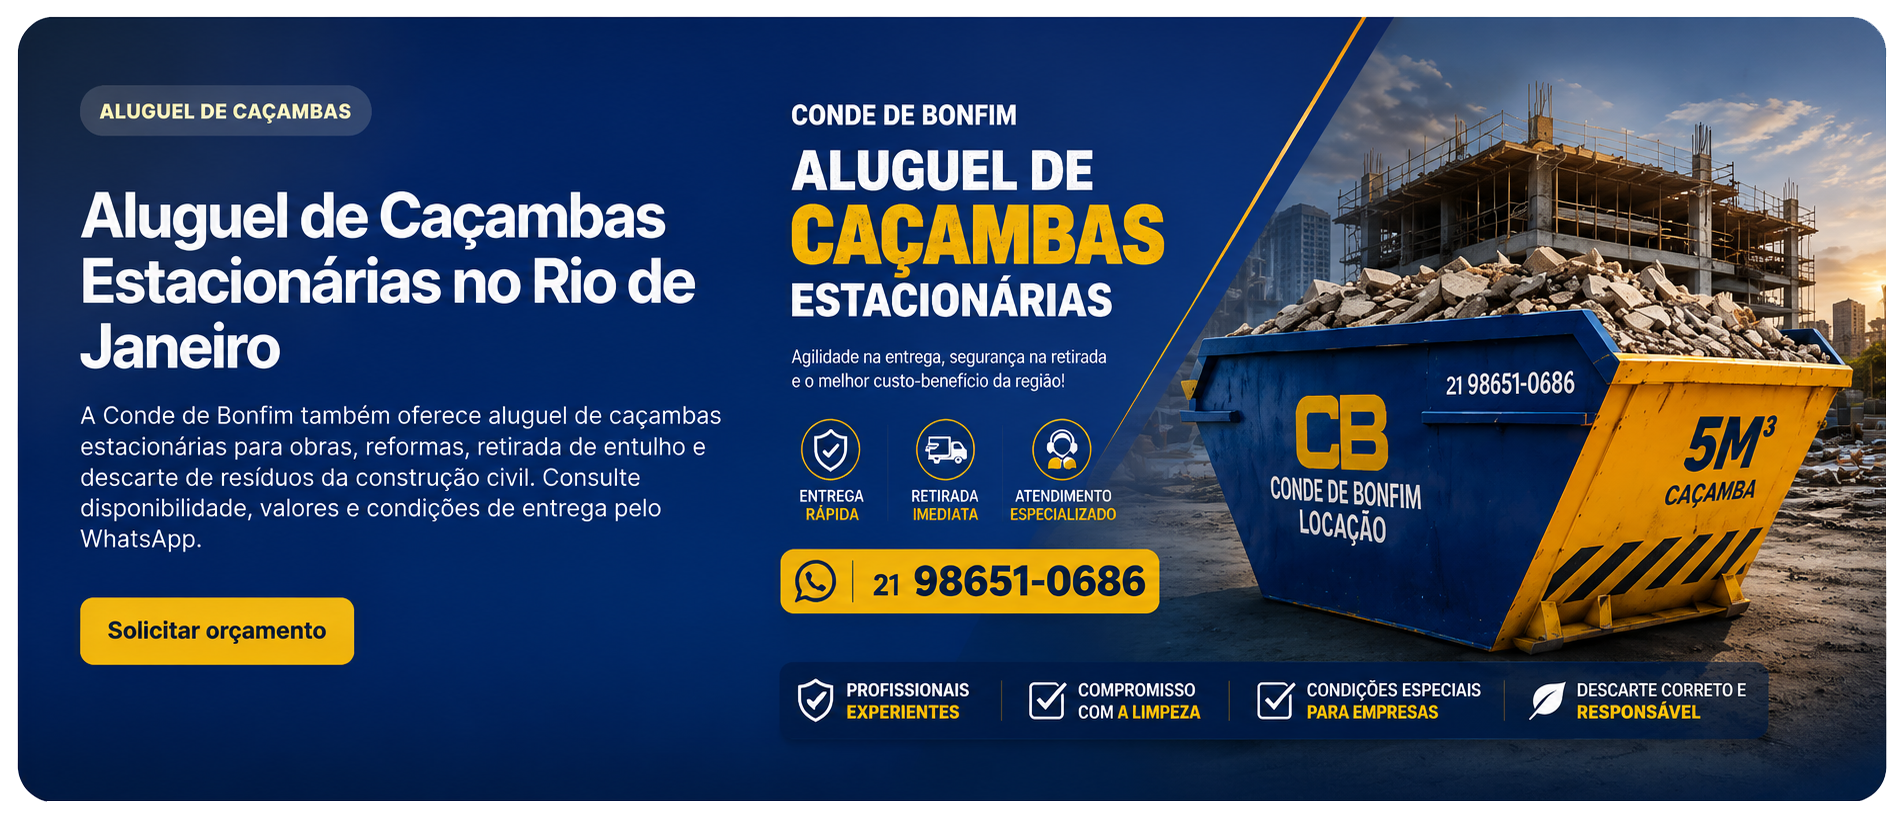
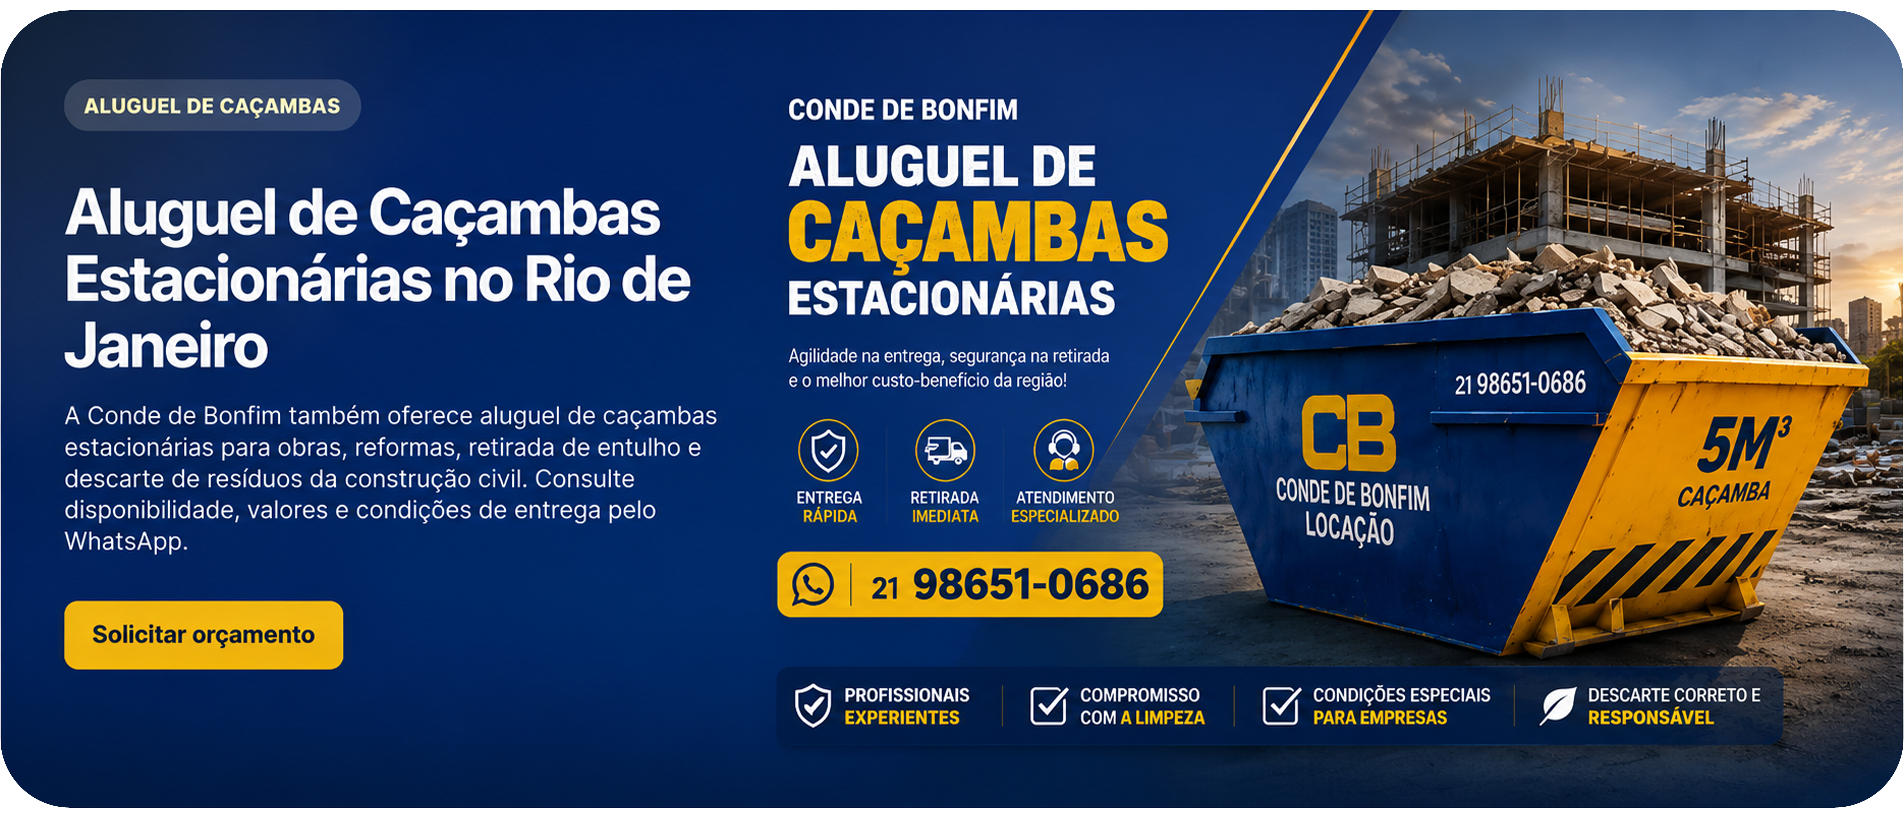
Atualização do card de aluguel de caçambas

diff --git a/app.js b/app.js
@@ -531,7 +531,7 @@ async function loadOffersPage(reset = false) {
     category: activeCategory
   });
   const promoProducts = (Array.isArray(result.products) ? result.products : [])
-    .filter((product) => typeof product.offPct === "number" && product.offPct > 0)
+    .filter((product) => typeof product.offPct === "number" && product.offPct > 50)
     .sort((a, b) => Number(b.offPct || 0) - Number(a.offPct || 0))
     .slice(0, 9);
   offersLoadedProducts = promoProducts;
@@ -768,8 +768,8 @@ function renderCategories() {
     card.className = "catCard" + (activeCategory === category.name ? " is-active" : "");
     card.type = "button";
     card.innerHTML = `
-      <div class="catIcon">📦</div>
-      <div class="catContent">
+      <div class="catIcon">✅</div>
+        <div class="catContent">
         <div class="catTitle">${escapeHtml(category.name)}</div>
         <div class="catCount">
           ${typeof category.count === "number" ? `${category.count} itens` : ""}

diff --git a/styles.css b/styles.css
@@ -1069,6 +1069,7 @@ textarea{
   line-height:1.35;
   display:-webkit-box;
   -webkit-line-clamp:2;
+  line-clamp:2;
   -webkit-box-orient:vertical;
   overflow:hidden;
 }
@@ -1258,7 +1259,7 @@ textarea{
   display:grid;
   grid-template-columns:minmax(0,1.05fr) minmax(360px,.95fr);
   align-items:stretch;
-  border-radius:28px;
+  border-radius:208px;
   background:
     radial-gradient(circle at top left, rgba(246,194,26,.22), transparent 22rem),
     linear-gradient(135deg,var(--blue-dark),var(--blue));